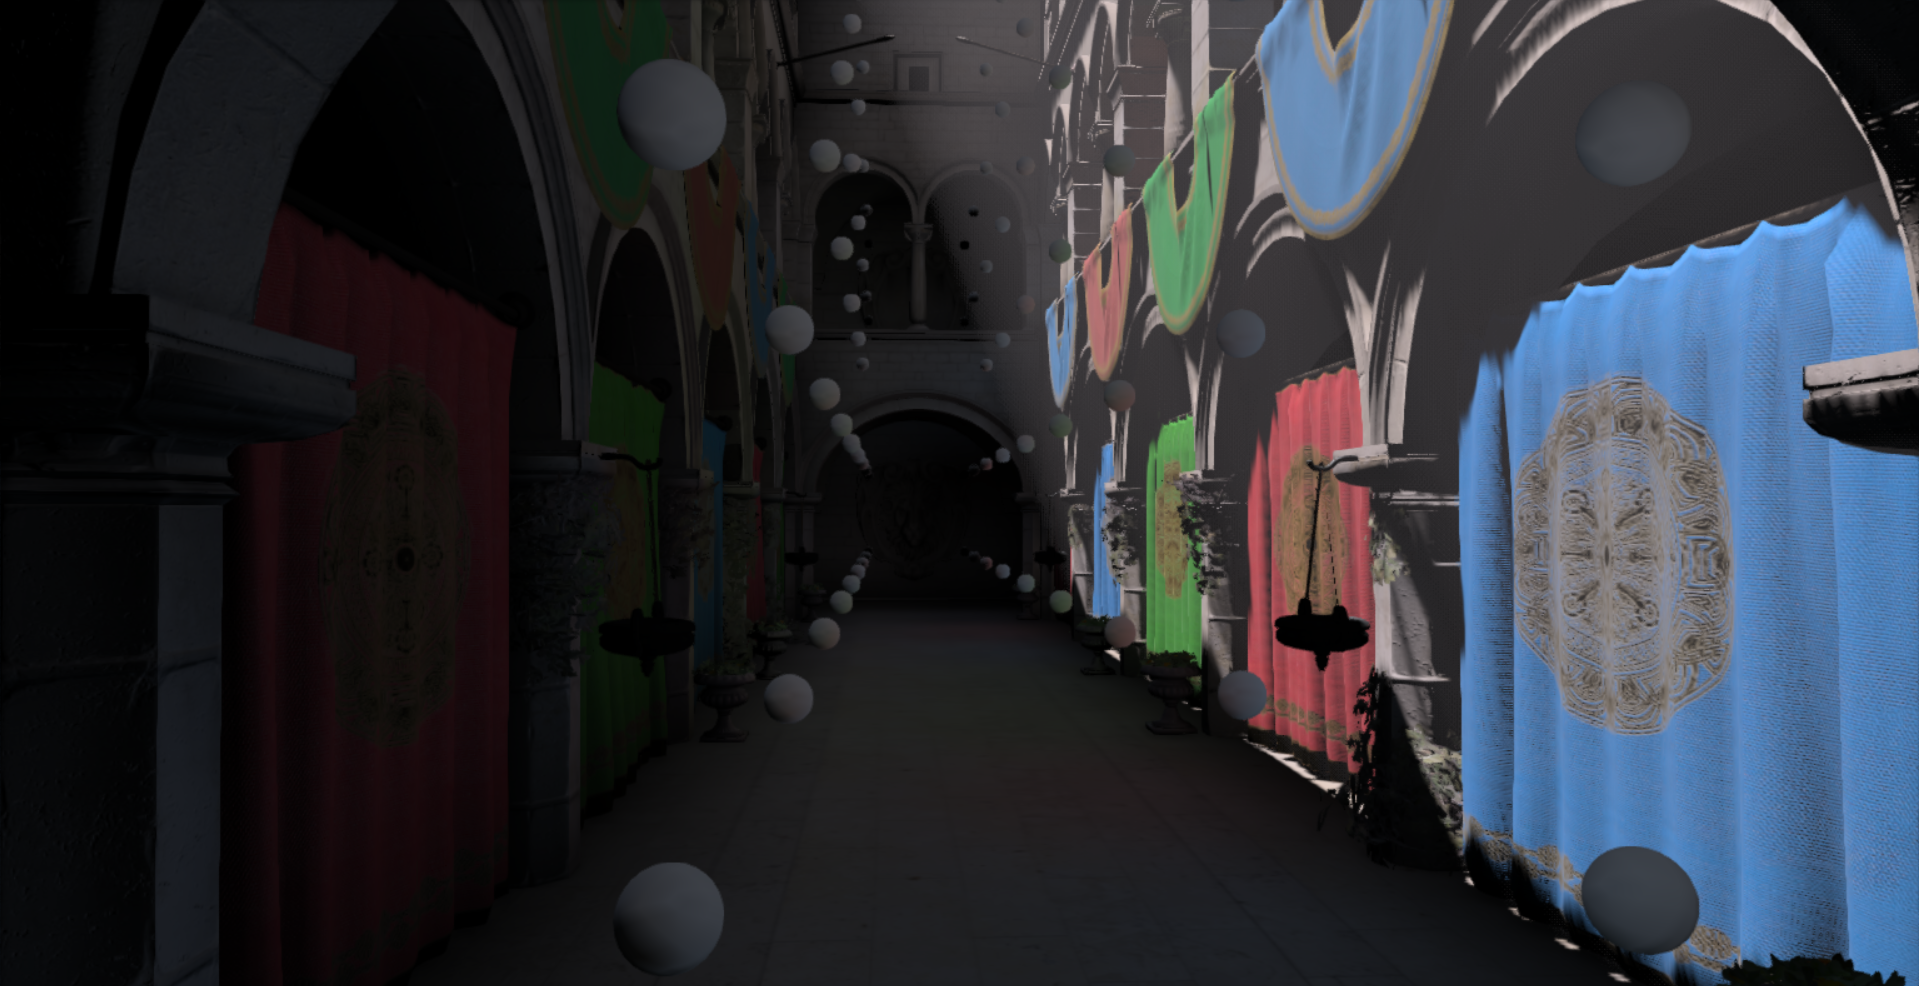
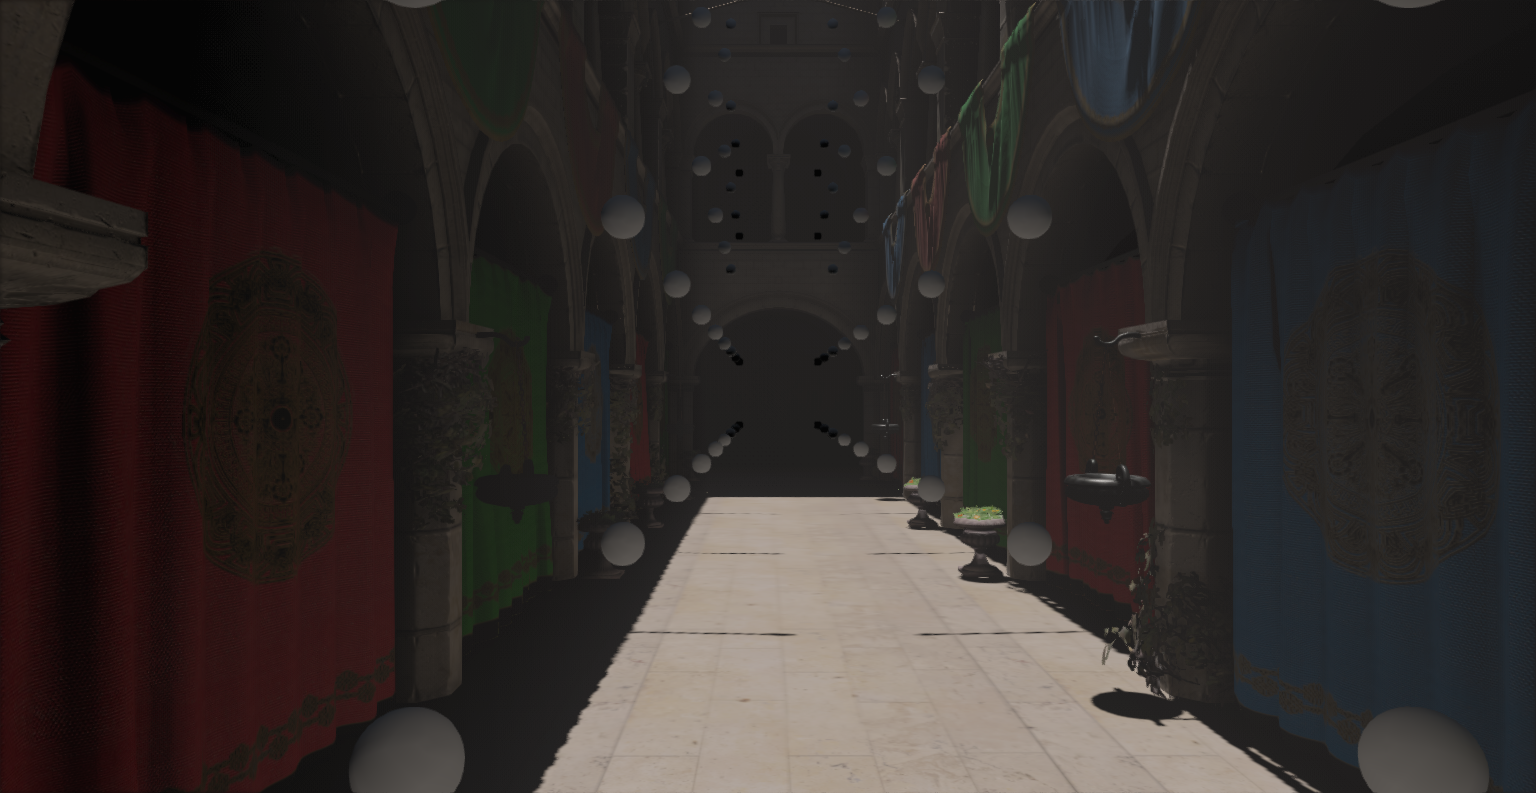
added some more cvars

diff --git a/Adria/Rendering/FFXDepthOfFieldPass.cpp b/Adria/Rendering/FFXDepthOfFieldPass.cpp
@@ -6,9 +6,22 @@
 #include "Editor/GUICommand.h"
 #include "Logging/Logger.h"
 #include "Math/Constants.h"
+#include "Core/ConsoleVariable.h"
 
 namespace adria
 {
+
+
+	namespace cvars
+	{
+		static ConsoleVariable dof_aperture("ffx.dof.aperture", 0.01f);
+		static ConsoleVariable dof_focus_distance("ffx.dof.focus.distance", 400.0f);
+		static ConsoleVariable dof_sensor_size("ffx.dof.sensor.size", 0.02f);
+		static ConsoleVariable dof_coc_limit("ffx.dof.coc.limit", 0.01f);
+		static ConsoleVariable dof_quality("ffx.dof.quality", 10);
+		static ConsoleVariable dof_ring_merging("ffx.dof.ring.merging", false);
+	}
+
 	FFXDepthOfFieldPass::FFXDepthOfFieldPass(GfxDevice* gfx, uint32 w, uint32 h) : gfx(gfx), width(w), height(h), ffx_interface(nullptr)
 	{
 		if (!gfx->GetCapabilities().SupportsShaderModel(SM_6_6)) return;
@@ -17,6 +30,7 @@ namespace adria
 		ffx_interface = CreateFfxInterface(gfx, FFX_DOF_CONTEXT_COUNT);
 		dof_context_desc.backendInterface = *ffx_interface;
 		CreateContext();
+		SetCVarCallbacks();
 	}
 
 	FFXDepthOfFieldPass::~FFXDepthOfFieldPass()
@@ -76,7 +90,6 @@ namespace adria
 			{
 				if (ImGui::TreeNodeEx(name_version, ImGuiTreeNodeFlags_None))
 				{
-					
 					ImGui::SliderFloat("Aperture", &aperture, 0.0f, 0.1f, "%.2f");
 					ImGui::SliderFloat("Sensor Size", &sensor_size, 0.0f, 0.1f, "%.2f");
 					ImGui::SliderFloat("Focus Distance", &focus_dist, frame_data.camera_near, frame_data.camera_far, "%.2f");
@@ -107,9 +120,31 @@ namespace adria
 		CreateContext();
 	}
 
+	void FFXDepthOfFieldPass::SetCVarCallbacks()
+	{
+		ADRIA_CVAR_CALLBACK(dof_aperture, (float v) { aperture = v; });
+		ADRIA_CVAR_CALLBACK(dof_sensor_size, (float v) { sensor_size = v; });
+		ADRIA_CVAR_CALLBACK(dof_focus_distance, (float v) { focus_dist = v; });
+		ADRIA_CVAR_CALLBACK(dof_quality, (int v) {
+			quality = v; 
+			DestroyContext();
+			CreateContext();
+		});
+		ADRIA_CVAR_CALLBACK(dof_coc_limit, (float v) {
+			coc_limit = v;
+			DestroyContext();
+			CreateContext();
+		});
+		ADRIA_CVAR_CALLBACK(dof_ring_merging, (bool v) {
+			enable_ring_merge = v;
+			DestroyContext();
+			CreateContext();
+		});
+	}
+
 	void FFXDepthOfFieldPass::CreateContext()
 	{
-		dof_context_desc.flags = 0; //FFX_DOF_OUTPUT_PRE_INIT;
+		dof_context_desc.flags = FFX_DOF_REVERSE_DEPTH;
 		if (!enable_ring_merge) dof_context_desc.flags |= FFX_DOF_DISABLE_RING_MERGE;
 		
 		dof_context_desc.resolution.width = width;

diff --git a/Adria/Rendering/FFXCACAOPass.cpp b/Adria/Rendering/FFXCACAOPass.cpp
@@ -4,6 +4,8 @@
 #include "Graphics/GfxDevice.h"
 #include "RenderGraph/RenderGraph.h"
 #include "Editor/GUICommand.h"
+#include "Core/ConsoleVariable.h"
+
 
 namespace adria
 {
@@ -14,8 +16,7 @@ namespace adria
 			bool use_downsampled_ssao;
 			FfxCacaoSettings cacao_settings;
 		};
-
-		static std::vector<std::string> FfxCacaoPresetNames = 
+		std::vector<std::string> FfxCacaoPresetNames = 
 		{
 			"Native - Adaptive Quality",
 			"Native - High Quality",
@@ -29,8 +30,7 @@ namespace adria
 			"Downsampled - Lowest Quality",
 			"Custom"
 		};
-
-		static const CacaoPreset FfxCacaoPresets[] = 
+		const CacaoPreset FfxCacaoPresets[] = 
 		{
 			// Native - Adaptive Quality
 			{
@@ -265,6 +265,11 @@ namespace adria
 		};
 	}
 
+	namespace cvars
+	{
+		static ConsoleVariable cacao_preset("ffx.cacao.preset", 0);
+	}
+
 	FFXCACAOPass::FFXCACAOPass(GfxDevice* gfx, uint32 w, uint32 h) : gfx(gfx), width(w), height(h), ffx_interface(nullptr)
 	{
 		if (!gfx->GetCapabilities().SupportsShaderModel(SM_6_6)) return;
@@ -277,6 +282,7 @@ namespace adria
 		preset_id = 2;
 		cacao_settings = FfxCacaoPresets[preset_id].cacao_settings;
 		use_downsampled_ssao = FfxCacaoPresets[preset_id].use_downsampled_ssao;
+		ADRIA_CVAR_CALLBACK(cacao_preset, (int v) { preset_id = Clamp(v, 0, 9); });
 	}
 
 	FFXCACAOPass::~FFXCACAOPass()
@@ -344,22 +350,20 @@ namespace adria
 				cmd_list->ResetState();
 			}, RGPassType::Compute);
 
+		cacao_settings = FfxCacaoPresets[preset_id].cacao_settings;
+		use_downsampled_ssao = FfxCacaoPresets[preset_id].use_downsampled_ssao;
 		GUI_Command([&]()
 			{
 				if (ImGui::TreeNodeEx(name_version, ImGuiTreeNodeFlags_None))
 				{
-					if (ImGui::Combo("Preset", &preset_id,
+					ImGui::Combo("Preset", &preset_id,
 						[](void* vec, int idx, const char** out_text)
 						{
 							std::vector<std::string>* vector = reinterpret_cast<std::vector<std::string>*>(vec);
 							if (idx < 0 || idx >= vector->size()) return false;
 							*out_text = vector->at(idx).c_str();
 							return true;
-						}, reinterpret_cast<void*>(&FfxCacaoPresetNames), (int32)FfxCacaoPresetNames.size()))
-					{
-						cacao_settings = FfxCacaoPresets[preset_id].cacao_settings;
-						use_downsampled_ssao = FfxCacaoPresets[preset_id].use_downsampled_ssao;
-					}
+						}, reinterpret_cast<void*>(&FfxCacaoPresetNames), (int32)FfxCacaoPresetNames.size());
 
 					ImGui::TreePop();
 				}

diff --git a/Adria/Rendering/BloomPass.cpp b/Adria/Rendering/BloomPass.cpp
@@ -7,11 +7,21 @@
 #include "Graphics/GfxDevice.h"
 #include "RenderGraph/RenderGraph.h"
 #include "Editor/GUICommand.h"
+#include "Core/ConsoleVariable.h"
+
 
 namespace adria
 {
+	namespace cvars
+	{
+		static ConsoleVariable bloom_radius("bloom.radius", 0.25f);
+		static ConsoleVariable bloom_intensity("bloom.intensity", 0.25f);
+		static ConsoleVariable bloom_blend_factor("bloom.blend.factor", 0.25f);
+	}
+
 	BloomPass::BloomPass(GfxDevice* gfx, uint32 w, uint32 h) : gfx(gfx), width(w), height(h)
 	{
+		SetCVarCallbacks();
 		CreatePSOs();
 	}
 
@@ -33,7 +43,7 @@ namespace adria
 			upsample_mips[i] = UpsamplePass(rg, downsample_mips[i], upsample_mips[i + 1], i + 1);
 		}
 
-		BloomBlackboardData blackboard_data{ .bloom_intensity = params.bloom_intensity, .bloom_blend_factor = params.bloom_blend_factor };
+		BloomBlackboardData blackboard_data{ .bloom_intensity = params.intensity, .bloom_blend_factor = params.blend_factor };
 		rg.GetBlackboard().Add<BloomBlackboardData>(std::move(blackboard_data));
 
 		GUI_Command([&]()
@@ -41,8 +51,8 @@ namespace adria
 				if (ImGui::TreeNodeEx("Bloom", 0))
 				{
 					ImGui::SliderFloat("Bloom Radius", &params.radius, 0.0f, 1.0f);
-					ImGui::SliderFloat("Bloom Intensity", &params.bloom_intensity, 0.0f, 8.0f);
-					ImGui::SliderFloat("Bloom Blend Factor", &params.bloom_blend_factor, 0.0f, 1.0f);
+					ImGui::SliderFloat("Bloom Intensity", &params.intensity, 0.0f, 8.0f);
+					ImGui::SliderFloat("Bloom Blend Factor", &params.blend_factor, 0.0f, 1.0f);
 					ImGui::TreePop();
 					ImGui::Separator();
 				}
@@ -67,6 +77,13 @@ namespace adria
 
 		compute_pso_desc.CS = CS_BloomUpsample;
 		upsample_pso = gfx->CreateComputePipelineState(compute_pso_desc);
+	}
+
+	void BloomPass::SetCVarCallbacks()
+	{
+		ADRIA_CVAR_CALLBACK(bloom_radius, (float v) { params.radius = v; });
+		ADRIA_CVAR_CALLBACK(bloom_intensity, (float v) { params.intensity = v; });
+		ADRIA_CVAR_CALLBACK(bloom_blend_factor, (float v) { params.blend_factor = v; });
 	}
 
 	RGResourceName BloomPass::DownsamplePass(RenderGraph& rg, RGResourceName input, uint32 pass_idx)

diff --git a/Adria/Rendering/AutomaticExposurePass.cpp b/Adria/Rendering/AutomaticExposurePass.cpp
@@ -6,13 +6,25 @@
 #include "Graphics/GfxBuffer.h"
 #include "Graphics/GfxPipelineState.h"
 #include "Editor/GUICommand.h"
+#include "Core/ConsoleVariable.h"
 #include <algorithm> // remove this later
 
 namespace adria
 {
+	namespace cvars
+	{
+		static ConsoleVariable min_luminance("autoexposure.min.luminance", 0.0f);
+		static ConsoleVariable max_luminance("autoexposure.max.luminance", 10.0f);
+		static ConsoleVariable low_percentile("autoexposure.low.percentile", 0.49f);
+		static ConsoleVariable high_percentile("autoexposure.high.percentile", 0.99f);
+		static ConsoleVariable adaption_speed("autoexposure.adaption.speed", 1.5f);
+		static ConsoleVariable exposure_compensation("autoexposure.exposure.compensation", 1.5f);
+	}
+
 
 	AutomaticExposurePass::AutomaticExposurePass(GfxDevice* gfx, uint32 w, uint32 h) : gfx(gfx), width(w), height(h)
 	{
+		SetCVarCallbacks();
 		CreatePSOs();
 	}
 
@@ -246,6 +258,16 @@ namespace adria
 
 		compute_pso_desc.CS = CS_Exposure;
 		exposure_pso = gfx->CreateComputePipelineState(compute_pso_desc);
+	}
+
+	void AutomaticExposurePass::SetCVarCallbacks()
+	{
+		ADRIA_CVAR_CALLBACK(min_luminance, (float v) { min_luminance = v; });
+		ADRIA_CVAR_CALLBACK(max_luminance, (float v) { max_luminance = v; });
+		ADRIA_CVAR_CALLBACK(low_percentile, (float v) { low_percentile = v; });
+		ADRIA_CVAR_CALLBACK(high_percentile, (float v) { high_percentile = v; });
+		ADRIA_CVAR_CALLBACK(adaption_speed, (float v) { adaption_speed = v; });
+		ADRIA_CVAR_CALLBACK(exposure_compensation, (float v) { exposure_compensation = v; });
 	}
 
 }

diff --git a/Adria/Rendering/FFXCASPass.cpp b/Adria/Rendering/FFXCASPass.cpp
@@ -5,9 +5,16 @@
 #include "RenderGraph/RenderGraph.h"
 #include "Editor/GUICommand.h"
 #include "Logging/Logger.h"
+#include "Core/ConsoleVariable.h"
+
 
 namespace adria
 {
+	namespace cvars
+	{
+		static ConsoleVariable cas_sharpness("ffx.cas.sharpness", 0.5f);
+	}
+
 	FFXCASPass::FFXCASPass(GfxDevice* gfx, uint32 w, uint32 h) : gfx(gfx), width(w), height(h), ffx_interface(nullptr)
 	{
 		if (!gfx->GetCapabilities().SupportsShaderModel(SM_6_6)) return;
@@ -15,6 +22,7 @@ namespace adria
 		ffx_interface = CreateFfxInterface(gfx, FFX_CAS_CONTEXT_COUNT);
 		cas_context_desc.backendInterface = *ffx_interface;
 		CreateContext();
+		ADRIA_CVAR_CALLBACK(cas_sharpness, (int v) { sharpness = v; });
 	}
 
 	FFXCASPass::~FFXCASPass()

diff --git a/Adria/Rendering/DepthOfFieldPass.cpp b/Adria/Rendering/DepthOfFieldPass.cpp
@@ -7,14 +7,22 @@
 #include "Graphics/GfxPipelineState.h"
 #include "RenderGraph/RenderGraph.h"
 #include "Editor/GUICommand.h"
+#include "Core/ConsoleVariable.h"
 
 using namespace DirectX;
 
 namespace adria
 {
+	namespace cvars
+	{
+		static ConsoleVariable dof_focus_distance("dof.focus.distance", 0.25f);
+		static ConsoleVariable dof_focus_radius("dof.focus.radius", 0.25f);
+	}
 
 	DepthOfFieldPass::DepthOfFieldPass(GfxDevice* gfx, uint32 w, uint32 h) : gfx(gfx), width(w), height(h), bokeh_pass(gfx, w, h), blur_pass(gfx, w, h)
 	{
+		ADRIA_CVAR_CALLBACK(dof_focus_distance, (float v) { params.focus_distance = v; });
+		ADRIA_CVAR_CALLBACK(dof_focus_radius, (float v) { params.focus_radius = v; });
 		CreatePSO();
 	}
 

diff --git a/Adria/Rendering/BloomPass.h b/Adria/Rendering/BloomPass.h
@@ -12,8 +12,8 @@ namespace adria
 		struct BloomParameters
 		{
 			float radius = 0.25f;
-			float bloom_intensity = 1.33f;
-			float bloom_blend_factor = 0.25f;
+			float intensity = 1.33f;
+			float blend_factor = 0.25f;
 		};
 	public:
 		BloomPass(GfxDevice* gfx, uint32 w, uint32 h);
@@ -30,6 +30,8 @@ namespace adria
 
 	private:
 		void CreatePSOs();
+		void SetCVarCallbacks();
+
 		RGResourceName DownsamplePass(RenderGraph& rendergraph, RGResourceName input, uint32 pass_idx);
 		RGResourceName UpsamplePass(RenderGraph& rendergraph, RGResourceName input, RGResourceName, uint32 pass_idx);
 	};

diff --git a/Adria/Rendering/SSAOPass.cpp b/Adria/Rendering/SSAOPass.cpp
@@ -16,8 +16,8 @@ namespace adria
 {
 	namespace cvars
 	{
-		ConsoleVariable ssao_power("ssao.power", 1.5f);
-		ConsoleVariable ssao_radius("ssao.radius", 1.0f);
+		static ConsoleVariable ssao_power("ssao.power", 1.5f);
+		static ConsoleVariable ssao_radius("ssao.radius", 1.0f);
 	}
 
 	SSAOPass::SSAOPass(GfxDevice* gfx, uint32 w, uint32 h) : gfx(gfx), width(w), height(h), ssao_random_texture(nullptr),

diff --git a/Adria/Rendering/DLSS3Pass.cpp b/Adria/Rendering/DLSS3Pass.cpp
@@ -11,7 +11,6 @@
 namespace adria
 {
 	static constexpr char const* project_guid = "a0f57b54-1daf-4934-90ae-c4035c19df04";
-
 	namespace
 	{
 		void NVSDK_CONV DLSS3Log(char const* message, NVSDK_NGX_Logging_Level logging_level, NVSDK_NGX_Feature source_component)

diff --git a/Adria/Rendering/FFXDepthOfFieldPass.h b/Adria/Rendering/FFXDepthOfFieldPass.h
@@ -33,6 +33,8 @@ namespace adria
 		bool  enable_ring_merge = false;
 
 	private:
+		void SetCVarCallbacks();
+
 		void CreateContext();
 		void DestroyContext();
 	};

diff --git a/Adria/Rendering/FilmEffectsPass.cpp b/Adria/Rendering/FilmEffectsPass.cpp
@@ -8,7 +8,6 @@
 
 namespace adria
 {
-
 	FilmEffectsPass::FilmEffectsPass(GfxDevice* gfx, uint32 w, uint32 h) : gfx(gfx), width(w), height(h)
 	{
 		CreatePSO();

diff --git a/Adria/Rendering/AutomaticExposurePass.h b/Adria/Rendering/AutomaticExposurePass.h
@@ -41,6 +41,7 @@ namespace adria
 
 	private:
 		void CreatePSOs();
+		void SetCVarCallbacks();
 	};
 }
 
